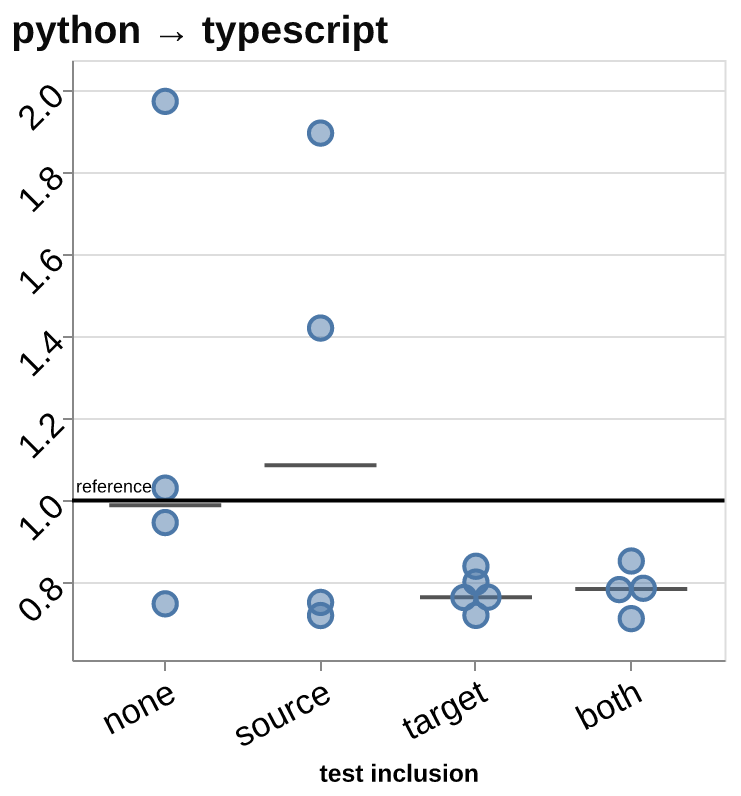
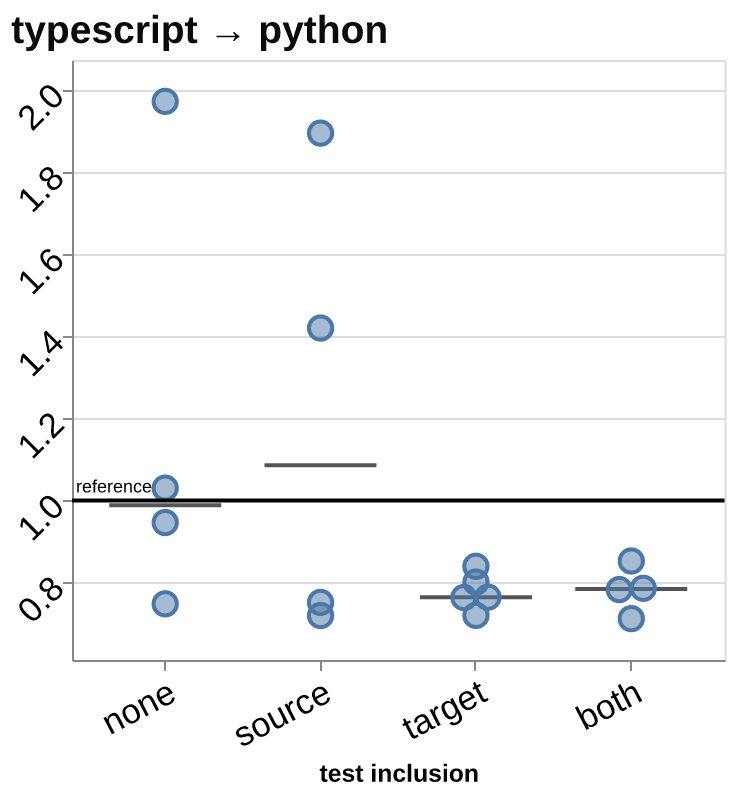
Give each chart its own direction in the title
The unified 'python → typescript' title read as a bug on the
typescript-to-python charts; titles now follow the chart's direction
(the size pair keeps its outlier asterisk).

Changed region(s): [[0.0, 0.0, 0.5277, 0.0603]]

diff --git a/analysis/export_charts.py b/analysis/export_charts.py
@@ -94,10 +94,11 @@ def charts(notebook):
         if section_lead is None:
             if section == "size":
                 built = build(metrics, font_scale=1.5)
-                # The blog frames the pair as one comparison, so both carry the same title.
                 built = built.properties(
                     title=alt.TitleParams(
-                        "python → typescript*", fontSize=main_title_px, anchor="start"
+                        f"{source_language} → {target_language}*",
+                        fontSize=main_title_px,
+                        anchor="start",
                     )
                 )
             else:

diff --git a/analysis/runs.py b/analysis/runs.py
@@ -1211,8 +1211,7 @@ def _(
         return alt.layer(medians, dots, rule, rule_label).properties(
             width=RATIO_WIDTH,
             height=300,
-            # The blog frames every chart pair as the one python -> typescript story.
-            title=panel_title("python → typescript", MAIN_TITLE_PX),
+            title=panel_title(direction(), MAIN_TITLE_PX),
         )
 
     def performance_panel(source_language):
